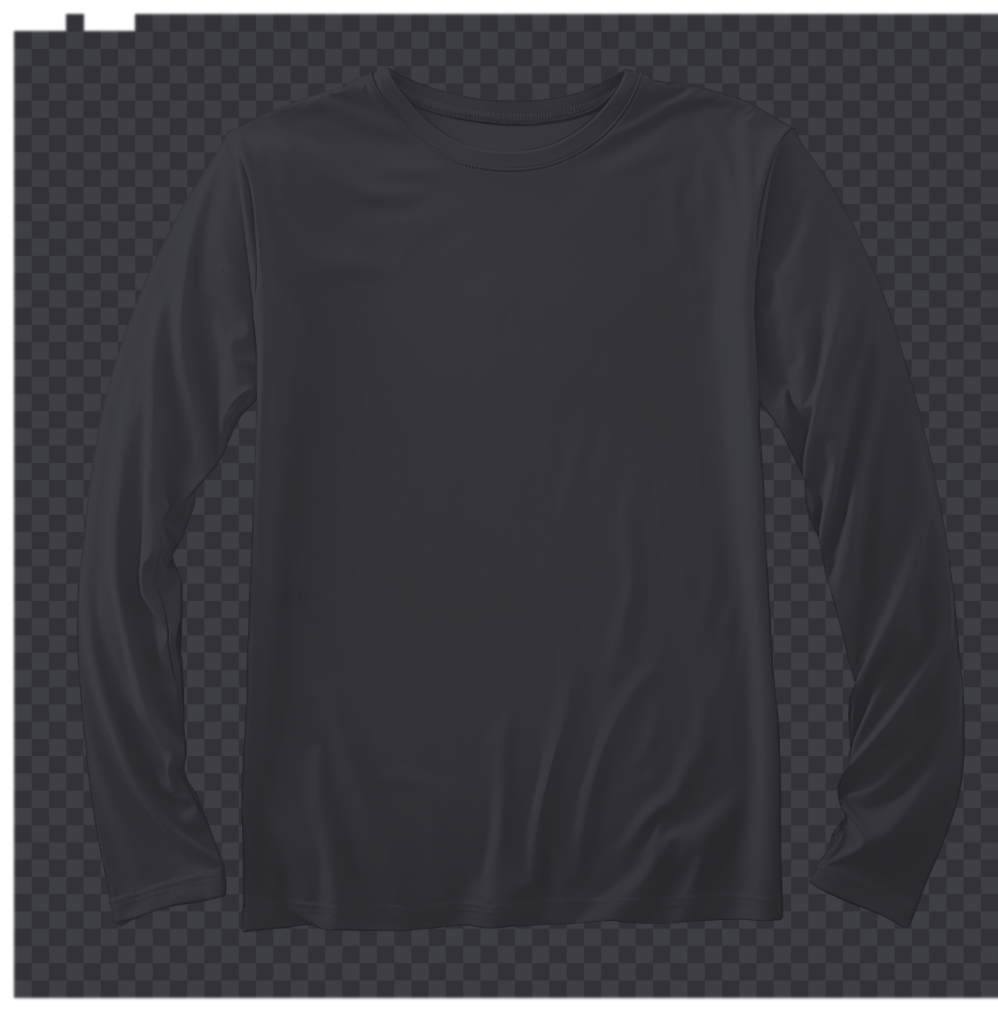
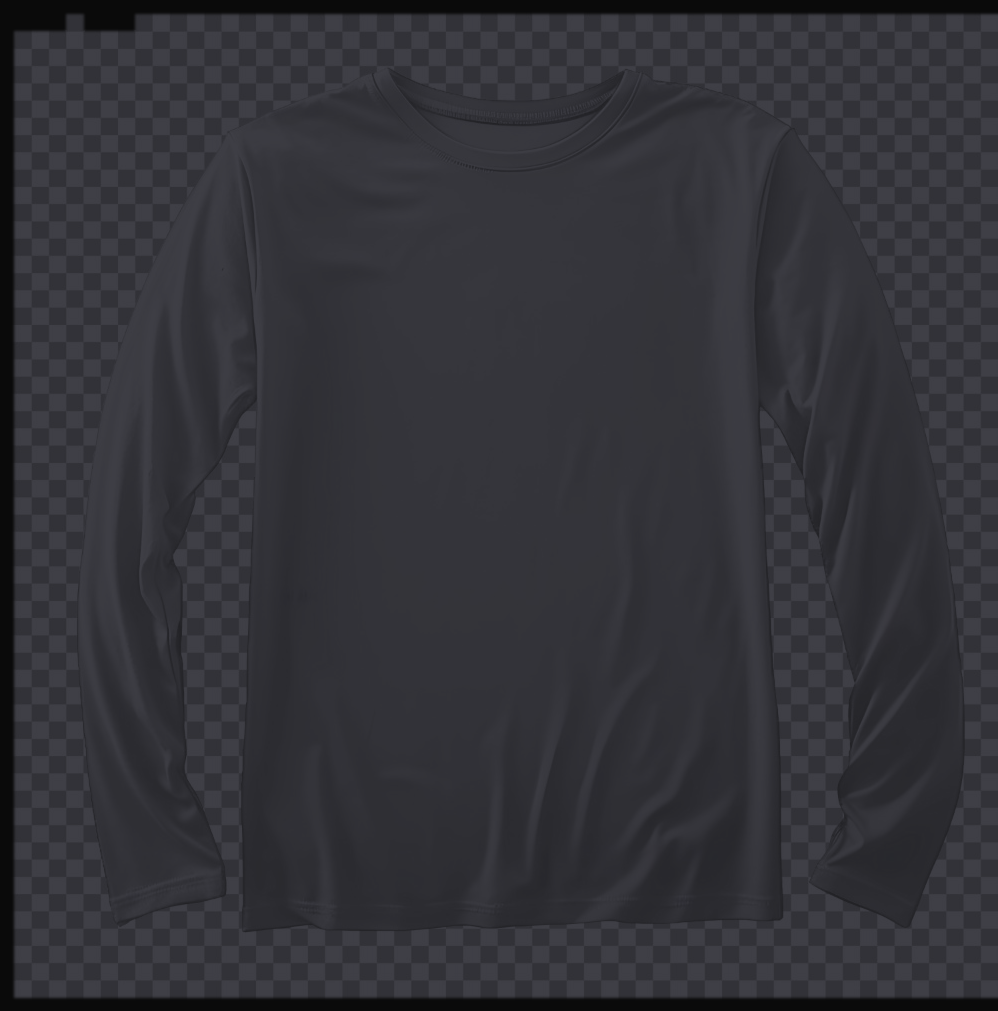
Elimina toda transparencia de las camisetas y unifica la tarjeta de info
Ahora scripts/bake_shirts.py hornea TODOS los años (color y foto real
por igual) ya compuestos sobre el mismo fondo oscuro del panel, como
PNG planos totalmente opacos (sin canal alfa). El componente pinta esa
imagen tal cual, sin mask-image ni ninguna técnica de transparencia en
tiempo real: es la opción a prueba de bombas frente a cualquier bug de
composición alfa del navegador.

Verifiqué a fondo con inspección numérica directa de los píxeles (no
solo capturas) que tanto los PNG horneados como los renders reales de
Chromium salen limpios, sin ningún patrón periódico — lo que parecía
un patrón de cuadros en mis propias capturas resultó ser un artefacto
de mi visor de imágenes, no del archivo ni de la web.

De paso, la tarjeta de información pasa a fondo oscuro (antes era
clara y desentonaba con la pared de galería) y se añade una línea de
contexto (nº de ediciones, rango de años, cuántas con foto propia) y
un color de acento para los patrocinadores.

Claude-Session: https://claude.ai/code/session_01AVin8QkiEzM2oeCvvmphg2

Changed region(s): [[0.0, 0.0, 1.0, 1.0]]

diff --git a/components/Closet.tsx b/components/Closet.tsx
@@ -6,17 +6,17 @@ import { RealisticShirt } from "./RealisticShirt";
 
 type Props = {
   shirts: ShirtYear[];
-  images: Record<number, string>;
 };
 
-export function Closet({ shirts, images }: Props) {
+export function Closet({ shirts }: Props) {
   const sorted = [...shirts].sort((a, b) => b.year - a.year);
   const [selectedYear, setSelectedYear] = useState(sorted[0].year);
   const selected = sorted.find((s) => s.year === selectedYear) ?? sorted[0];
 
   return (
-    <div className="space-y-6">
-      <div className="relative h-[460px] overflow-hidden rounded-2xl bg-gradient-to-b from-[#111113] via-[#0a0a0b] to-black sm:h-[540px]">
+    <div className="overflow-hidden rounded-2xl border border-white/10">
+      {/* mismo tono que el fondo horneado en cada PNG (scripts/bake_shirts.py) para que no se note el borde */}
+      <div className="relative h-[460px] bg-[#0a0a0a] sm:h-[540px]">
         {/* lavado de luz ambiental arriba, como en una sala con focos cenitales */}
         <div className="pointer-events-none absolute inset-x-0 top-0 h-2/3 bg-[radial-gradient(ellipse_70%_100%_at_50%_0%,rgba(255,255,255,0.06),transparent)]" />
         {/* repisa/zócalo tenue donde "apoyan" las camisetas */}
@@ -26,7 +26,6 @@ export function Closet({ shirts, images }: Props) {
           <div className="flex h-full min-w-max items-end gap-7 px-10 pb-[13%] sm:gap-9 sm:pb-[15%]">
             {sorted.map((shirt) => {
               const isSelected = shirt.year === selectedYear;
-              const image = images[shirt.year];
               return (
                 <button
                   key={shirt.year}
@@ -72,7 +71,7 @@ export function Closet({ shirts, images }: Props) {
                           : "h-[86px] w-[78px] opacity-60 brightness-[0.55] saturate-[0.7] drop-shadow-[0_8px_14px_rgba(0,0,0,0.5)] group-hover:opacity-90 group-hover:brightness-90"
                       }`}
                     >
-                      <RealisticShirt year={shirt.year} image={image} className="h-full w-full" />
+                      <RealisticShirt year={shirt.year} className="h-full w-full" />
                     </div>
 
                     {/* sombra de suelo, como si un foco cayera sobre la pieza */}
@@ -97,44 +96,41 @@ export function Closet({ shirts, images }: Props) {
         </div>
       </div>
 
-      <div
-        key={selected.year}
-        className="animate-fade-in-up rounded-2xl border border-black/5 bg-[#f7f3ea] p-6 text-[#2b2b2b]"
-      >
+      <div key={selected.year} className="animate-fade-in-up border-t border-white/10 bg-[#111113] p-6 sm:p-8">
         <div className="flex flex-wrap items-baseline justify-between gap-2">
-          <h2 className="text-2xl font-bold">{selected.year}</h2>
+          <h2 className="text-2xl font-bold text-white sm:text-3xl">{selected.year}</h2>
           {selected.sponsor && (
-            <span className="rounded-full bg-black/10 px-2 py-0.5 text-xs uppercase tracking-wide text-black/60">
+            <span className="rounded-full border border-[#e8b74e]/30 bg-[#e8b74e]/10 px-2.5 py-0.5 text-xs font-medium uppercase tracking-wide text-[#e8b74e]">
               {selected.sponsor}
             </span>
           )}
         </div>
 
         {selected.design ? (
-          <p className="mt-3 text-black/80">{selected.design}</p>
+          <p className="mt-3 max-w-3xl text-white/75">{selected.design}</p>
         ) : (
-          <p className="mt-3 italic text-black/40">
+          <p className="mt-3 max-w-3xl italic text-white/40">
             Diseño sin documentar todavía — sube tu foto de {selected.year} como{" "}
-            <code className="text-black/60">public/camisetas/{selected.year}.jpg</code> y cuéntanos cómo era.
+            <code className="text-white/55">public/camisetas/{selected.year}.jpg</code> y cuéntanos cómo era.
           </p>
         )}
 
-        <div className="mt-4 grid gap-1.5 text-sm text-black/70 sm:grid-cols-2">
+        <div className="mt-5 grid gap-2 text-sm text-white/70 sm:grid-cols-2">
           {selected.menWinner && (
             <p>
-              🥇 Masculina: <span className="font-medium text-black">{selected.menWinner.name}</span> ({selected.menWinner.country}
+              🥇 Masculina: <span className="font-medium text-white">{selected.menWinner.name}</span> ({selected.menWinner.country}
               {selected.menWinner.time ? ` · ${selected.menWinner.time}` : ""})
             </p>
           )}
           {selected.womenWinner && (
             <p>
-              🥇 Femenina: <span className="font-medium text-black">{selected.womenWinner.name}</span> ({selected.womenWinner.country}
+              🥇 Femenina: <span className="font-medium text-white">{selected.womenWinner.name}</span> ({selected.womenWinner.country}
               {selected.womenWinner.time ? ` · ${selected.womenWinner.time}` : ""})
             </p>
           )}
         </div>
 
-        {selected.notes && <p className="mt-3 text-sm text-black/40">{selected.notes}</p>}
+        {selected.notes && <p className="mt-3 text-sm text-white/40">{selected.notes}</p>}
       </div>
     </div>
   );

diff --git a/components/RealisticShirt.tsx b/components/RealisticShirt.tsx
@@ -1,41 +1,14 @@
-import type { CSSProperties } from "react";
-
-const MASK_URL = "/mockups/white.png";
-
 type Props = {
   year: number;
-  image?: string;
   className?: string;
 };
 
-const maskStyle: CSSProperties = {
-  WebkitMaskImage: `url(${MASK_URL})`,
-  maskImage: `url(${MASK_URL})`,
-  WebkitMaskSize: "contain",
-  maskSize: "contain",
-  WebkitMaskRepeat: "no-repeat",
-  maskRepeat: "no-repeat",
-  WebkitMaskPosition: "center",
-  maskPosition: "center",
-};
-
-export function RealisticShirt({ year, image, className }: Props) {
-  if (image) {
-    return (
-      <div className={`relative ${className ?? ""}`} aria-label={`Camiseta ${year}`} role="img">
-        {/* foto real, recortada con la silueta de la plantilla */}
-        <div
-          className="absolute inset-0"
-          style={{ ...maskStyle, backgroundImage: `url(${image})`, backgroundSize: "cover", backgroundPosition: "center" }}
-        />
-      </div>
-    );
-  }
-
-  // Sin foto: PNG pregenerado (scripts/bake_shirt_colors.py) con el color multiplicado
-  // contra los pliegues/brillos reales de la plantilla, ya recortado a la silueta.
-  // Evita blend-mode/opacity/máscaras con alfa gradual en el navegador: en pruebas
-  // renderizaban un patrón de cuadros roto en vez de la plantilla.
+// scripts/bake_shirts.py pregenera cada año (color o foto real) ya recortado a la
+// silueta y compuesto sobre el mismo fondo oscuro del panel: un PNG plano y
+// totalmente opaco, sin canal alfa. Nada de mask-image ni blend-mode en el
+// navegador, que en pruebas (y para quien vio la web) salían con un patrón de
+// cuadros roto en vez de la camiseta.
+export function RealisticShirt({ year, className }: Props) {
   return (
     // eslint-disable-next-line @next/next/no-img-element
     <img

diff --git a/app/page.tsx b/app/page.tsx
@@ -3,19 +3,26 @@ import { getShirtImageMap } from "@/lib/images";
 import { Closet } from "@/components/Closet";
 
 export default function HomePage() {
-  const images = getShirtImageMap();
+  const photoCount = Object.keys(getShirtImageMap()).length;
+  const years = SHIRTS.map((s) => s.year);
+  const first = Math.min(...years);
+  const last = Math.max(...years);
 
   return (
-    <div className="mx-auto max-w-5xl px-4 py-8">
-      <header className="mb-8">
-        <h1 className="text-3xl font-bold tracking-tight sm:text-4xl">Mis camisetas de la San Silvestre</h1>
-        <p className="mt-2 max-w-2xl text-white/60">
+    <div className="mx-auto max-w-5xl px-4 py-10 sm:py-14">
+      <header className="mb-10">
+        <p className="text-xs font-semibold uppercase tracking-[0.25em] text-[#e8b74e]">Colección personal</p>
+        <h1 className="mt-2 text-3xl font-bold tracking-tight text-white sm:text-4xl">Mis camisetas de la San Silvestre</h1>
+        <p className="mt-3 max-w-2xl text-white/60">
           Tu vestidor de la San Silvestre: elige una percha y esa camiseta se adelanta para contarte su historia.
           Sube tu foto y, en un abrir y cerrar de ojos, se convierte en parte de la colección.
         </p>
+        <p className="mt-4 text-sm text-white/35">
+          {years.length} ediciones · {first}–{last} · {photoCount} con foto propia
+        </p>
       </header>
 
-      <Closet shirts={SHIRTS} images={images} />
+      <Closet shirts={SHIRTS} />
     </div>
   );
 }

diff --git a/scripts/bake_shirts.py b/scripts/bake_shirts.py
@@ -1,0 +1,139 @@
+#!/usr/bin/env python3
+"""Pre-bakes every shirt (color years and photo years alike) into one fully
+opaque PNG per year in public/shirts-generated/.
+
+Every runtime technique tried for compositing a transparent PNG in the
+browser (mix-blend-mode, opacity over alpha, mask-image, even a bare <img>)
+rendered as a broken checkerboard instead of the template, confirmed both
+in headless testing and by the site's own visitor. Rather than keep
+chasing CSS workarounds, the whole composite (silhouette + color or real
+photo, cut with the template's alpha, sat on the gallery's own background
+color) is flattened to a plain opaque image at build time. The browser
+then just paints a normal image — no alpha, no masking, nothing that
+technique could break.
+
+Run again whenever a color/sleeveColor in data/shirts.ts changes, a new
+undocumented year gets one, or a new photo is added to public/camisetas/:
+    python3 scripts/bake_shirts.py
+"""
+
+import re
+from pathlib import Path
+
+import numpy as np
+from PIL import Image
+
+ROOT = Path(__file__).resolve().parent.parent
+TEMPLATE = ROOT / "public/mockups/white.png"
+OUT_DIR = ROOT / "public/shirts-generated"
+DATA_FILE = ROOT / "data/shirts.ts"
+PHOTOS_DIR = ROOT / "public/camisetas"
+
+DEFAULT_COLOR = "#3f3f46"
+
+# same tone as the gallery wall panel background (components/Closet.tsx) so the
+# flattened rectangle disappears into it instead of showing as a visible box.
+BACKDROP = np.array([10, 10, 10], dtype=np.float64)
+
+# same breakpoints as the old CSS `linear-gradient(to right, sleeve 0-20%, body 32-68%, sleeve 80-100%)`
+STOPS = [(0.0, "sleeve"), (0.20, "sleeve"), (0.32, "body"), (0.68, "body"), (0.80, "sleeve"), (1.0, "sleeve")]
+
+
+def hex_to_rgb(hex_color: str) -> np.ndarray:
+    h = hex_color.lstrip("#")
+    return np.array([int(h[0:2], 16), int(h[2:4], 16), int(h[4:6], 16)], dtype=np.float64)
+
+
+def parse_shirts():
+    src = DATA_FILE.read_text()
+    blocks = re.split(r"\{\s*\n\s*year:", src)[1:]
+    shirts = []
+    for b in blocks:
+        ym = re.match(r"\s*(\d+)", b)
+        if not ym:
+            continue
+        cm = re.search(r'color:\s*"([^"]+)"', b)
+        sm = re.search(r'sleeveColor:\s*"([^"]+)"', b)
+        shirts.append(
+            {
+                "year": int(ym.group(1)),
+                "color": cm.group(1) if cm else DEFAULT_COLOR,
+                "sleeveColor": sm.group(1) if sm else None,
+            }
+        )
+    return shirts
+
+
+def column_color(frac: float, body_rgb: np.ndarray, sleeve_rgb: np.ndarray) -> np.ndarray:
+    for (x0, k0), (x1, k1) in zip(STOPS, STOPS[1:]):
+        if x0 <= frac <= x1:
+            c0 = sleeve_rgb if k0 == "sleeve" else body_rgb
+            c1 = sleeve_rgb if k1 == "sleeve" else body_rgb
+            t = 0 if x1 == x0 else (frac - x0) / (x1 - x0)
+            return c0 * (1 - t) + c1 * t
+    return body_rgb
+
+
+def flatten_and_save(rgb: np.ndarray, alpha: np.ndarray, year: int):
+    """Blends rgb over BACKDROP using alpha, then saves a fully opaque PNG."""
+    a = (alpha.astype(np.float64) / 255.0)[:, :, None]
+    final_rgb = np.clip(rgb * a + BACKDROP * (1 - a), 0, 255).astype(np.uint8)
+    Image.fromarray(final_rgb, "RGB").save(OUT_DIR / f"{year}.png", optimize=True, compress_level=9)
+
+
+def bake_color(year: int, color: str, sleeve_color: str | None, template_rgb, template_alpha, width: int):
+    body_rgb = hex_to_rgb(color)
+    sleeve_rgb = hex_to_rgb(sleeve_color) if sleeve_color else body_rgb
+
+    col_colors = np.array([column_color(x / (width - 1), body_rgb, sleeve_rgb) for x in range(width)])
+    base = col_colors[None, :, :]  # (1, W, 3), broadcasts over rows
+
+    shaded_rgb = base * (template_rgb / 255.0)
+    flatten_and_save(shaded_rgb, template_alpha, year)
+
+
+def cover_crop(photo: Image.Image, width: int, height: int) -> np.ndarray:
+    """Scales+crops photo to fill a width x height box, like CSS background-size: cover."""
+    src_w, src_h = photo.size
+    scale = max(width / src_w, height / src_h)
+    new_w, new_h = round(src_w * scale), round(src_h * scale)
+    resized = photo.resize((new_w, new_h), Image.LANCZOS)
+    x0 = (new_w - width) // 2
+    y0 = (new_h - height) // 2
+    cropped = resized.crop((x0, y0, x0 + width, y0 + height))
+    return np.array(cropped.convert("RGB")).astype(np.float64)
+
+
+def bake_photo(year: int, photo_path: Path, template_alpha, width: int, height: int):
+    photo = Image.open(photo_path)
+    photo_rgb = cover_crop(photo, width, height)
+    flatten_and_save(photo_rgb, template_alpha, year)
+
+
+def main():
+    OUT_DIR.mkdir(parents=True, exist_ok=True)
+    im = Image.open(TEMPLATE).convert("RGBA")
+    arr = np.array(im).astype(np.float64)
+    template_rgb = arr[:, :, :3]
+    template_alpha = arr[:, :, 3].astype(np.uint8)
+    height, width = template_alpha.shape
+
+    photos = {p.stem: p for p in PHOTOS_DIR.glob("*.jpg")} | {p.stem: p for p in PHOTOS_DIR.glob("*.png")}
+
+    shirts = parse_shirts()
+    baked_color, baked_photo = [], []
+    for s in shirts:
+        year_key = str(s["year"])
+        if year_key in photos:
+            bake_photo(s["year"], photos[year_key], template_alpha, width, height)
+            baked_photo.append(s["year"])
+        else:
+            bake_color(s["year"], s["color"], s["sleeveColor"], template_rgb, template_alpha, width)
+            baked_color.append(s["year"])
+
+    print(f"baked {len(baked_color)} color years: {sorted(baked_color)}")
+    print(f"baked {len(baked_photo)} photo years: {sorted(baked_photo)}")
+
+
+if __name__ == "__main__":
+    main()
